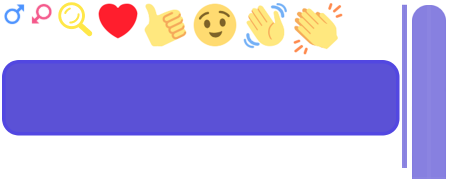
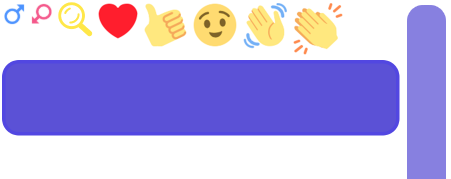
小人物面板动作按钮

Changed region(s): [[0.8692, 0.0279, 0.9313, 1.0]]

diff --git a/src/pica/render/ui/PicaNewRole/PicaNewRolePanel.ts b/src/pica/render/ui/PicaNewRole/PicaNewRolePanel.ts
@@ -125,6 +125,7 @@ export class PicaNewRolePanel extends PicaBasePanel {
         this.actionContanier = new PeopleActionContainer(this.scene, this.dpr);
         this.actionContanier.setHandler(new Handler(this, this.onPeopleActionHandler));
         this.actionContanier.y = -this.content.height * 0.5 - this.actionContanier.height * 0.5 - 10 * this.dpr;
+        this.actionContanier.x = 40 * this.dpr;
         this.content.add(this.actionContanier);
         this.resize();
         super.init();
@@ -216,11 +217,11 @@ class PeopleActionContainer extends Phaser.GameObjects.Container {
         this.background = this.scene.make.image({ key: UIAtlasName.people_action, frame: "people_action_bg" });
         this.setSize(this.background.width, this.background.height);
         this.add(this.background);
-        const posx = -this.width * 0.5;
+        const posx = -this.width * 0.5+5*dpr;
         for (let i = 0; i < 5; i++) {
             const frame = "people_action_" + (i + 1);
             const button = new Button(this.scene, UIAtlasName.people_action, frame);
-            button.x = posx + button.width * 0.5 + (button.width + 20 * dpr) * i;
+            button.x = posx + button.width * 0.5 + (button.width + 10 * dpr) * i;
             button["action"] = frame;
             button.on(ClickEvent.Tap, this.onActionHandler, this);
             this.add(button);
